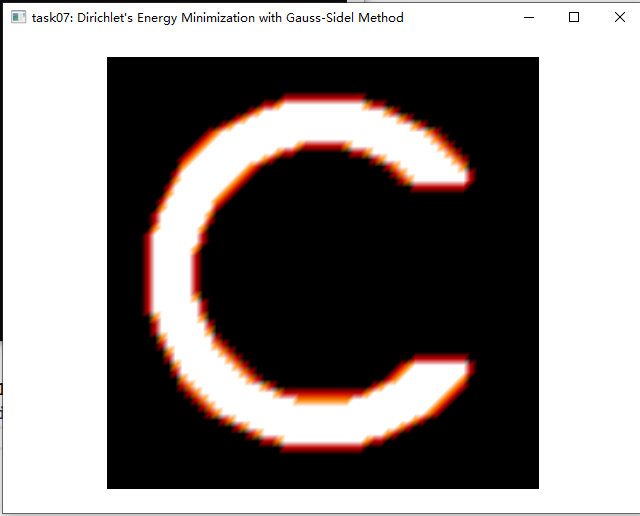
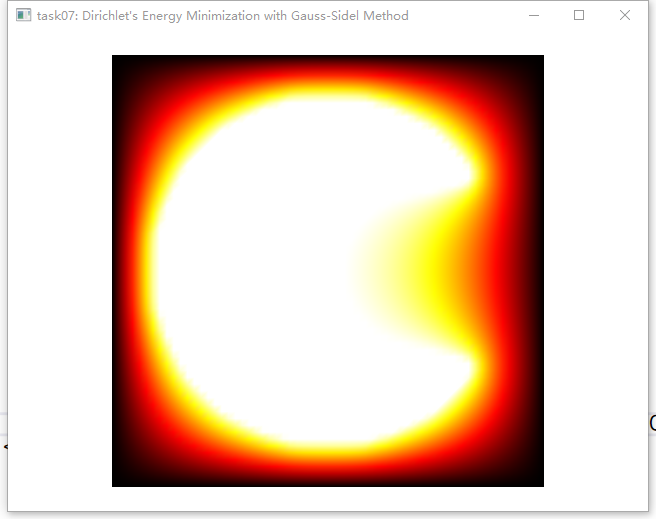
fix bug

diff --git a/task07/main.cpp b/task07/main.cpp
@@ -28,7 +28,7 @@ void solve_laplace_gauss_sidel_on_grid(
       // Do not write more than 5 lines of code
 
 
-      int side = ((iy < grid_size - 1) ? vtx2val[(iy + 1) * grid_size + ix] : 0) + ((iy > 0) ? vtx2val[(iy - 1) * grid_size + ix] : 0) + ((ix < grid_size - 1) ? vtx2val[iy * grid_size + ix + 1] : 0) + ((ix > 0) ? vtx2val[iy * grid_size + ix - 1] : 0);
+      float side = ((iy < grid_size - 1) ? vtx2val[(iy + 1) * grid_size + ix] : 0) + ((iy > 0) ? vtx2val[(iy - 1) * grid_size + ix] : 0) + ((ix < grid_size - 1) ? vtx2val[iy * grid_size + ix + 1] : 0) + ((ix > 0) ? vtx2val[iy * grid_size + ix - 1] : 0);
       float num = ((iy < grid_size - 1) ? 1.0 : 0) + ((iy > 0) ? 1 : 0) + ((ix < grid_size - 1) ? 1 : 0) + ((ix > 0) ? 1 : 0);
       vtx2val[idx_center] = side / num;
     }
